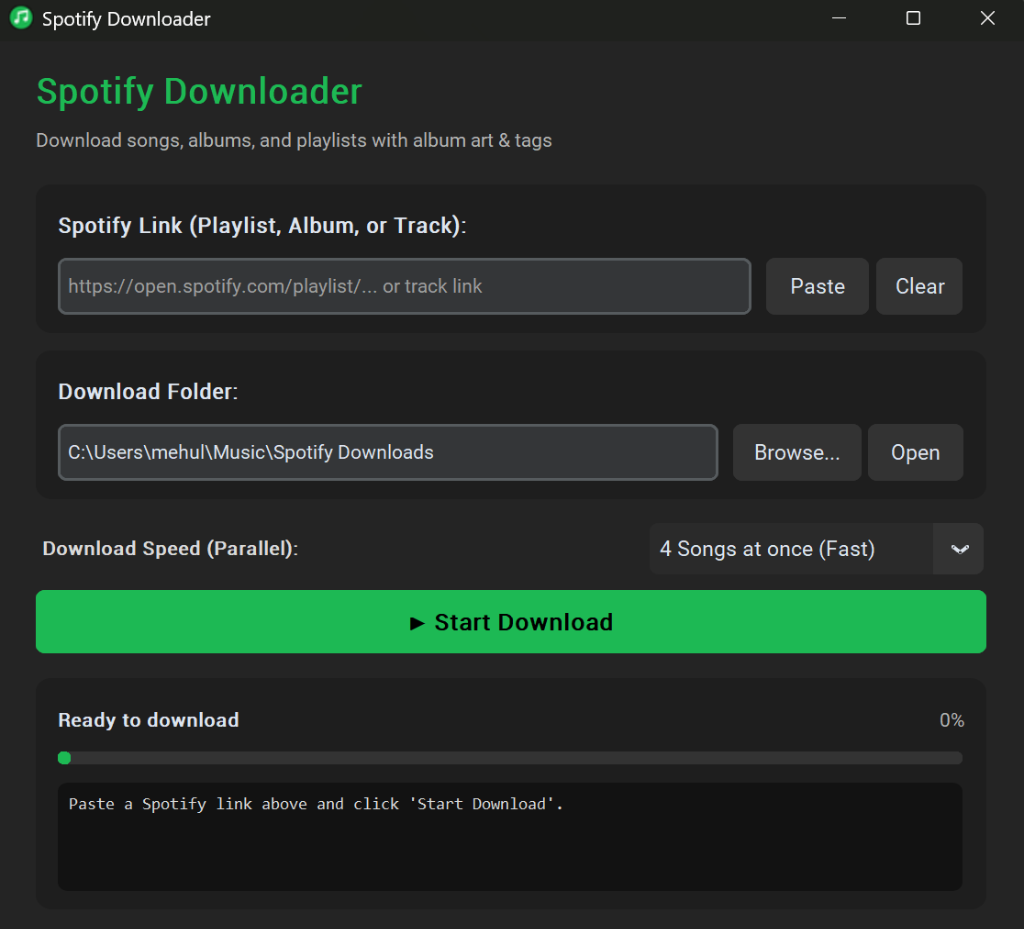
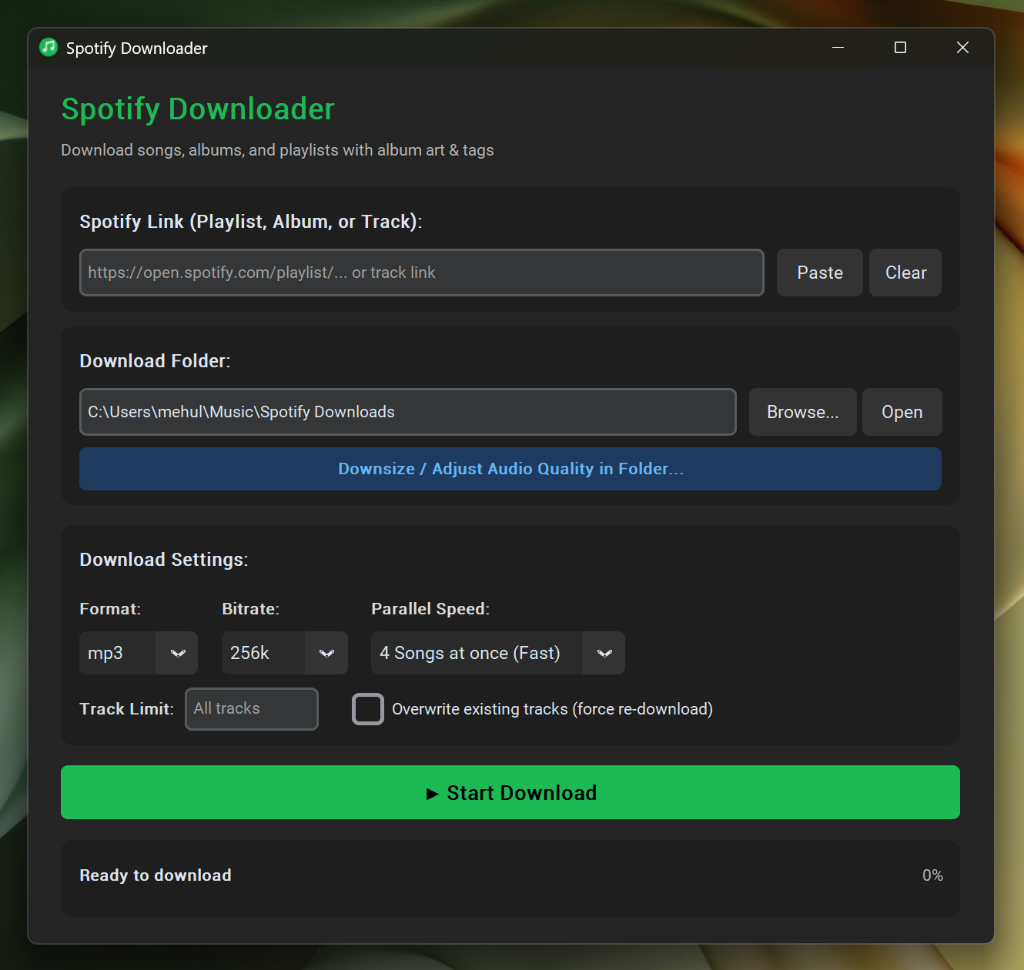
Update README and UI screenshots with new main window and downsize dialog

diff --git a/README.md b/README.md
@@ -97,9 +97,13 @@ python spotify_dl.py --downsize "C:\Music\MyPlaylist" --bitrate 192k
 
 If your music library occupies too much storage space (e.g. downloaded at 320 kbps), you can easily downsize your existing music files:
 
+<p align="center">
+  <img src="assets/screenshot-downsize.png" alt="Downsize and Adjust Audio Quality" width="550" />
+</p>
+
 1. **In the Desktop App**:
    - In the **Download Folder** card, click **Downsize / Adjust Audio Quality in Folder...**.
-   - Choose your target bitrate (e.g. `192k` saves ~40% space, `128k` saves ~60% space).
+   - The app automatically inspects the actual encoding of all songs in the folder and presents only valid, reducible bitrate options along with calculated storage savings (e.g. `192k saves ~25% [~948 MB]`, `128k saves ~50% [~1.85 GB]`).
    - Select whether to replace files in-place or output to a separate subfolder.
    - Click **Start Downsizing** — all album art, ID3 tags, and artist info are preserved intact.
 
